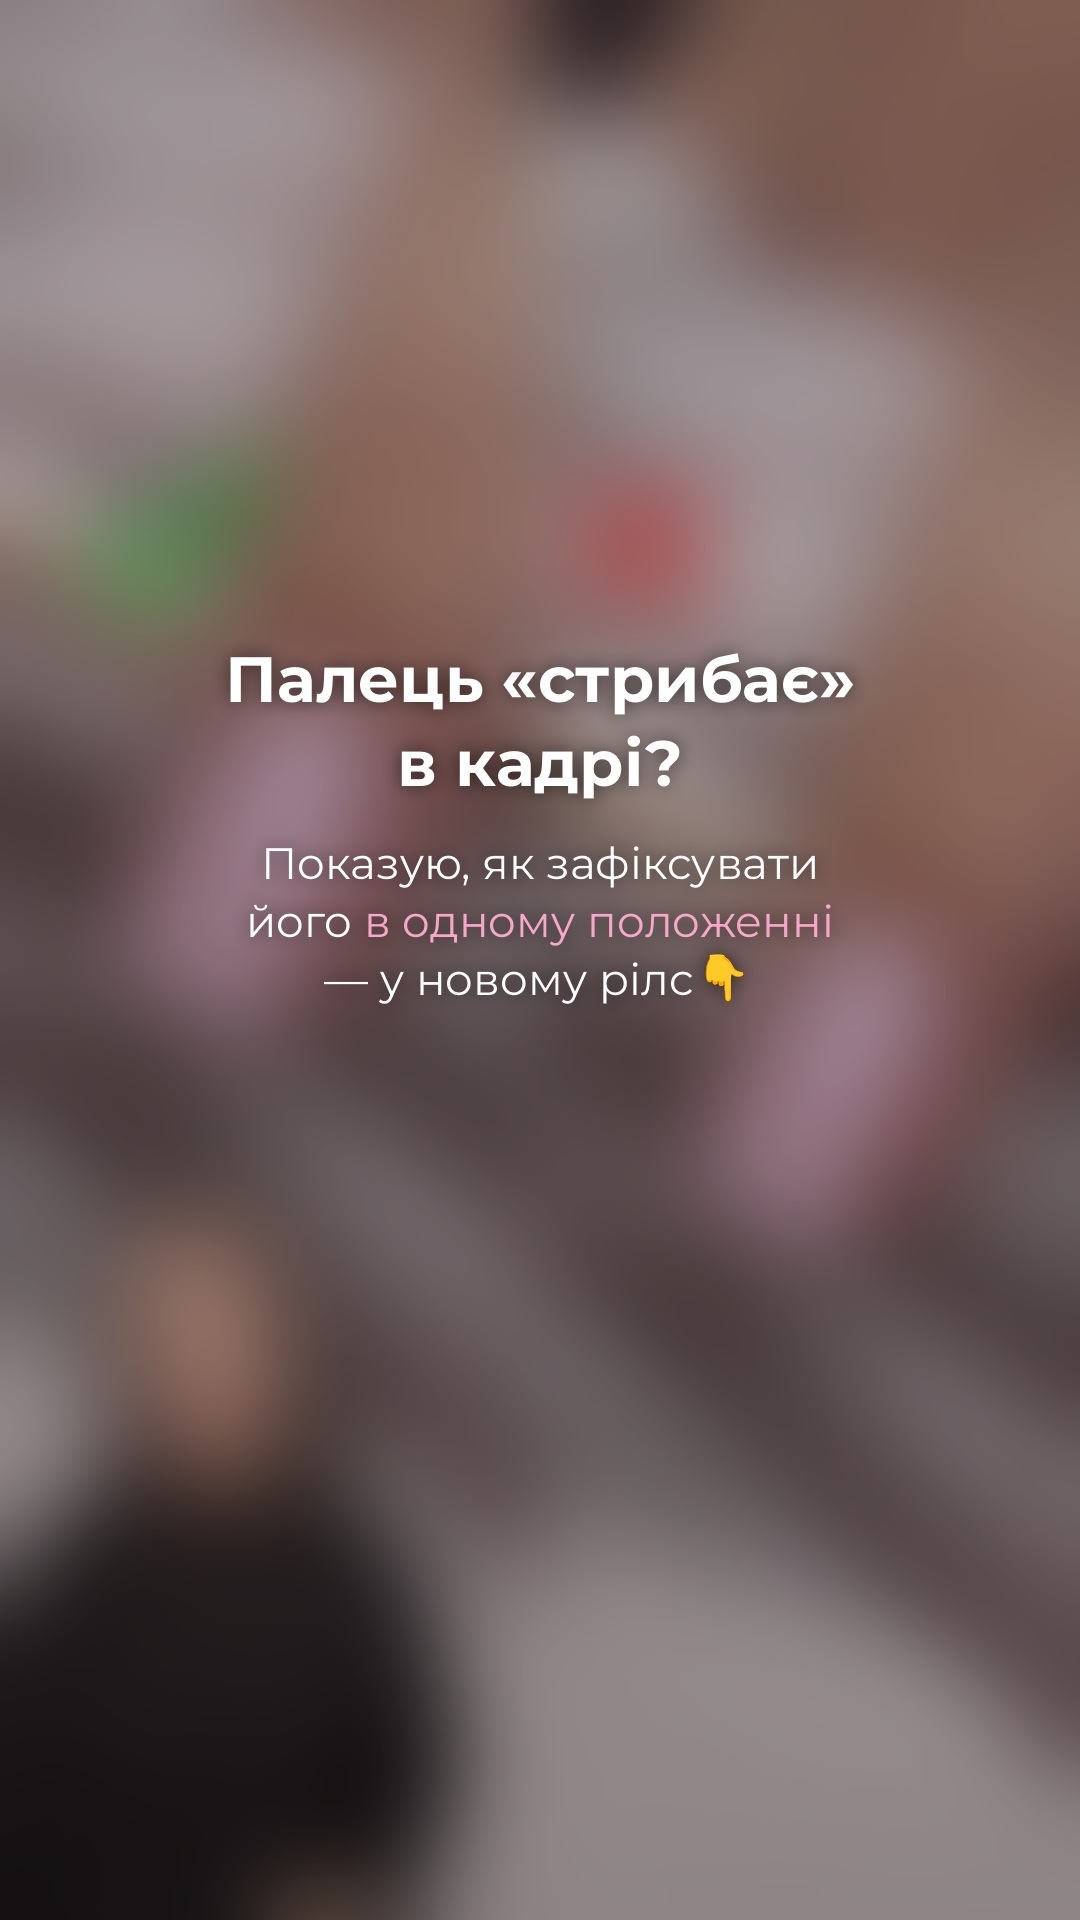
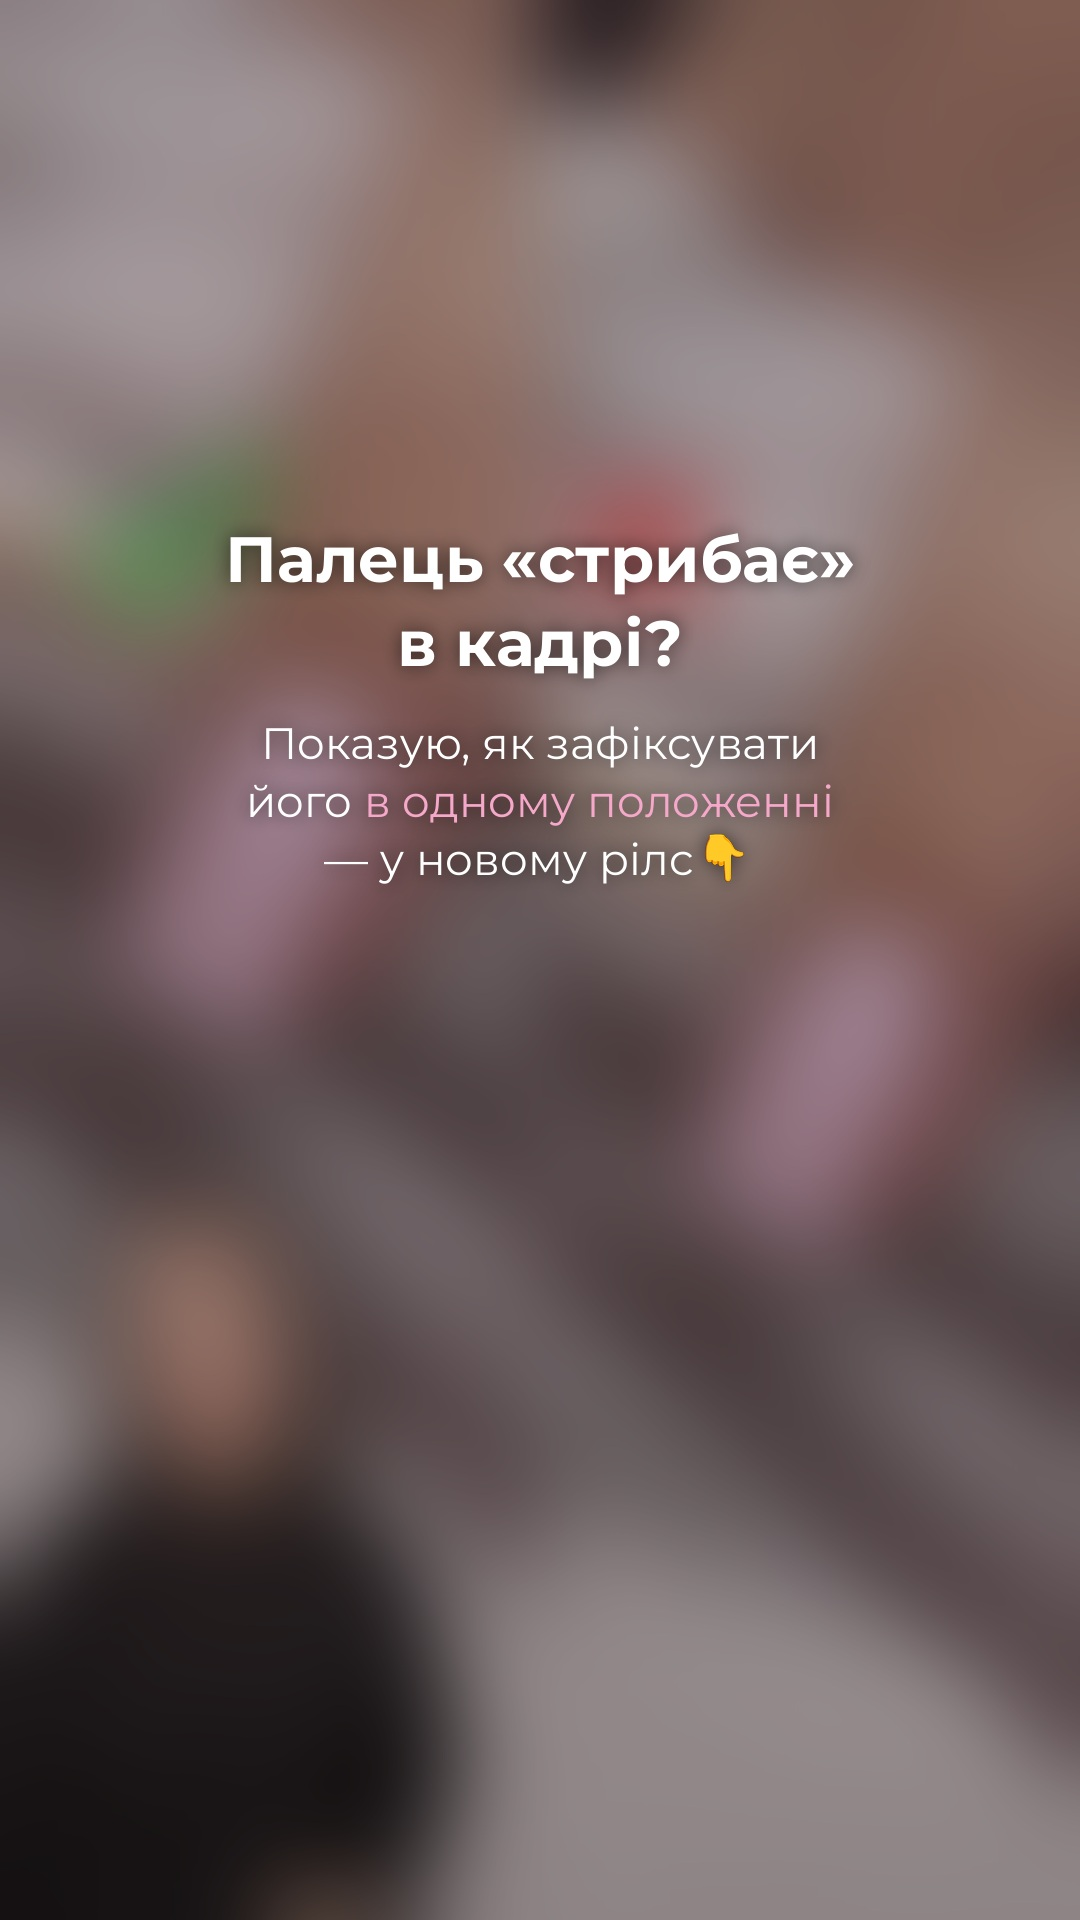
Lifehack stories: centered text on 1, raised text on 2
Claude-Session: https://claude.ai/code/session_0191xVL2hi5vHUvM1ix6pauC

Changed region(s): [[0.2139, 0.2812, 0.7944, 0.5312]]

diff --git a/stories/lifehack/build.py b/stories/lifehack/build.py
@@ -3,10 +3,15 @@ S,R=sys.argv[1:3]
 src=open(f'{S}/zn_st.py').read().split("im,y=two(")[0]
 exec(src)
 OUT=f'{R}/stories/lifehack'
-im,y=two(fit(f'{U}/44955f0d-image.jpg'),210,'Підготувала для вас *корисний лайфхак*','який дуже допомагає мені в монтажі майстер-класів','🎬',shade=150); im.save(f'{OUT}/1.jpg',quality=94)
+b1=fit(f'{U}/44955f0d-image.jpg')
+g=Image.new('L',(W,H),0); ImageDraw.Draw(g).rounded_rectangle((60,140,1020,470),radius=120,fill=150); g=g.filter(ImageFilter.GaussianBlur(60)); b1=Image.composite(Image.new('RGB',(W,H),(22,17,15)),b1,g)
+im,y0=tx(b1,210,'Підготувала для вас *корисний лайфхак*','',cx=540,mw=900,align='c',shade=0)
+_R=REG; REG=F(40,400)
+im,y=tx(im,y0+6,'','який дуже допомагає мені в монтажі майстер-класів','🎬',cx=540,mw=860,align='c',shade=0); REG=_R
+im.save(f'{OUT}/1.jpg',quality=94)
 bgi=fit(f'{U}/099fb45c-image.jpg').filter(ImageFilter.GaussianBlur(45)); bgi=Image.blend(bgi,Image.new('RGB',(W,H),(40,30,32)),0.35)
 _B=BOLD; BOLD=F(64,700)
-im,y0=tx(bgi,640,'Палець «стрибає» в кадрі?','',cx=540,mw=660,align='c',shade=0); BOLD=_B
+im,y0=tx(bgi,520,'Палець «стрибає» в кадрі?','',cx=540,mw=660,align='c',shade=0); BOLD=_B
 _R=REG; REG=F(44,400)
 im,y=tx(im,y0+20,'','Показую, як зафіксувати його *в одному положенні* — у новому рілс','👇',cx=540,mw=640,align='c',shade=0); REG=_R
 im.save(f'{OUT}/2.jpg',quality=94)
